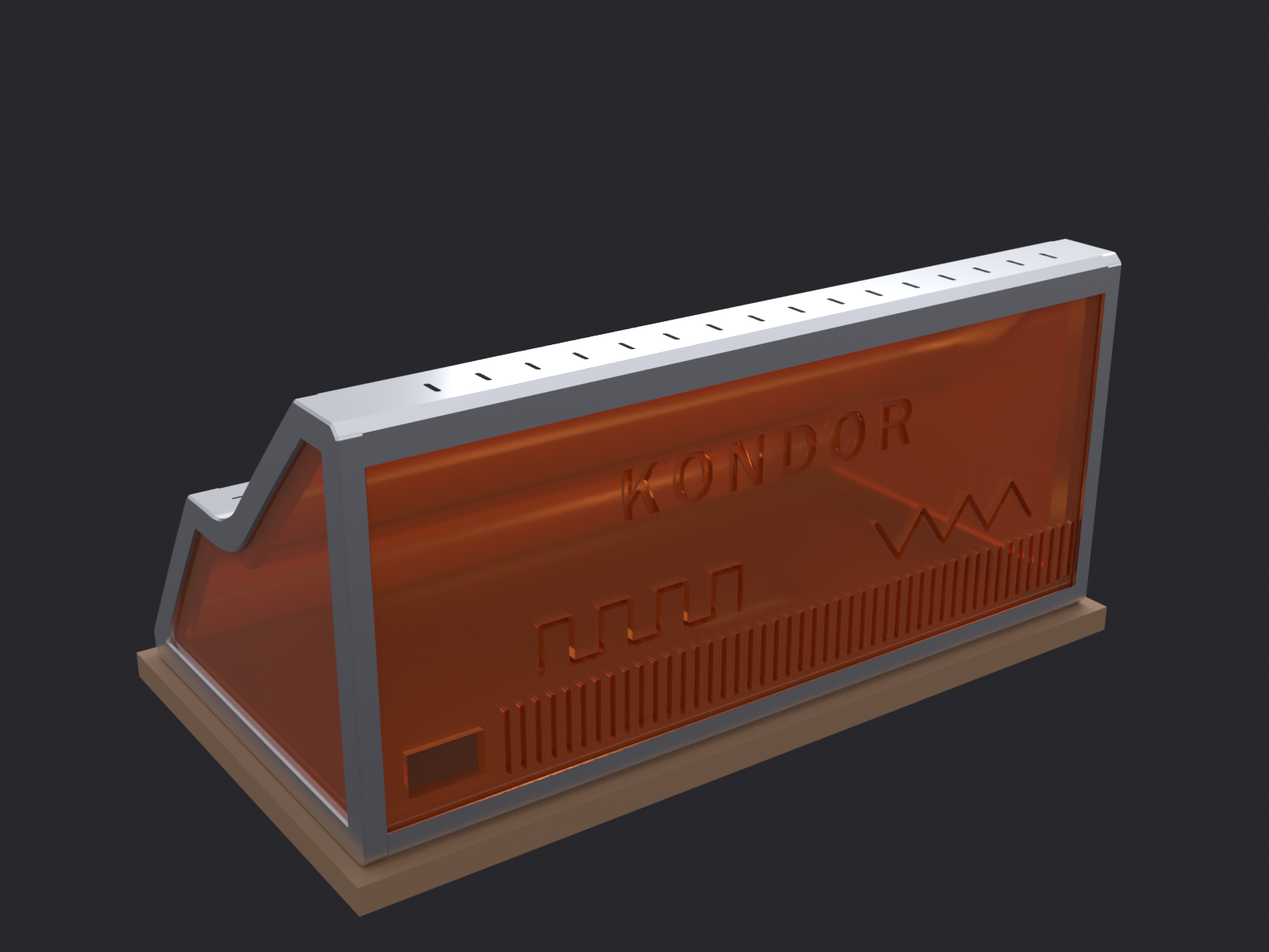
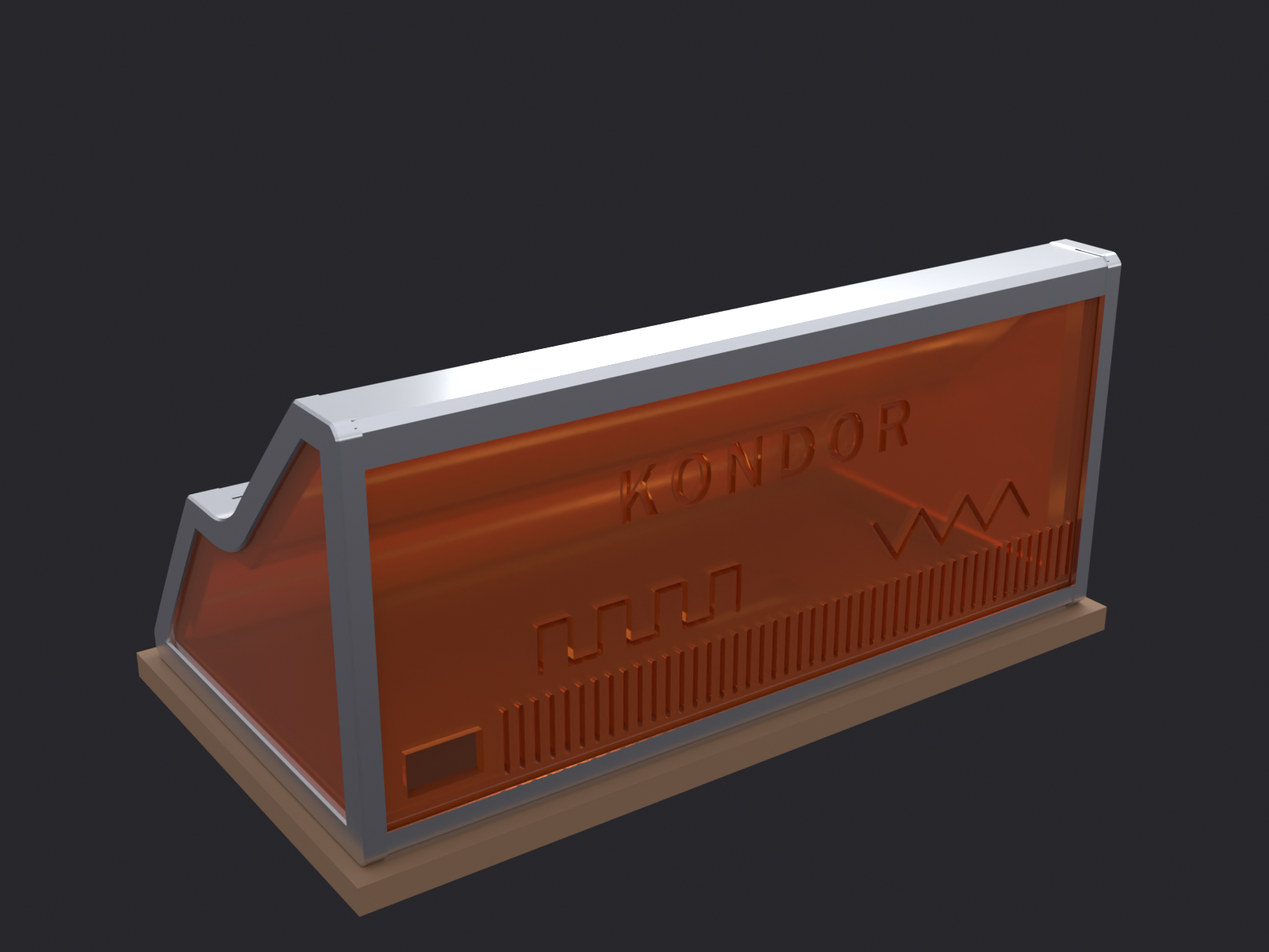
Los papeles del techo macizo, las cinco enmiendas aplicadas, y los cuatro renders
README (BOM, termico, blanks, tacos y el montaje 4-6 con la tabla entrando con
el anillo A y el chasis al final), PLIEGO rev. 27 (rebajes y cajeados CON SUS
PROFUNDIDADES, que el DXF es una planta y no las sabe decir; radios, cupon,
desarrollos con muesca) y RFQ rev. 26 (la pregunta del reborde de 1 x 3 a
+-0.1, la unica abierta de esta tanda).

Y las cinco enmiendas del §9 APLICADAS en sus papeles, no prometidas en una
tabla: este repo ya arrastra specs que se mandan enmiendas unas a otras sin que
nadie las ejecute, y asi main sostiene dos arquitecturas vivas a la vez. Cada
una va fechada y diciendo a que sustituye; el razonamiento viejo se conserva.

Escritos por codex (ultra, 41 min, fuera de la factura de Claude) con los
numeros dados inline y la instruccion de no inventar ninguno. Cero [PENDIENTE].
Verificados a mano contra la salida del presupuesto: de quince cotas clave,
trece salen impresas y las dos que no -- el blank del techo (593.02) y el pie
de la nariz (19.5) -- se comprobaron llamando al modelo. Codex ademas aviso, y
tenia razon, de que otro proceso le movia HEAD debajo mientras escribia.

Los cuatro renders regenerados con la brida ya corregida, los cuatro VERDE.

Claude-Session: https://claude.ai/code/session_01U7UtxXUysRG6bCfHZXiNkw

diff --git a/docs/superpowers/specs/2026-08-29-trasera-capturada-talon-nariz-design.md b/docs/superpowers/specs/2026-08-29-trasera-capturada-talon-nariz-design.md
@@ -15,6 +15,13 @@ miembro), que se queda en lo demás · **Enmienda** a `2026-08-15-case-design.md
 (rev. 26), a `2026-08-29-nariz-recta-valle-limpio-design.md` §2.3 y a
 `2026-08-28-costilla-pletina-design.md` §4.
 
+> **Enmienda del 2026-08-30.** La spec
+> `2026-08-30-techo-macizo-chapas-empotradas-design.md` sustituye aquí las
+> cotas operativas del bolsillo, la cara vista de la trasera, las juntas de
+> los labios, el montaje y el techo. Las correcciones están junto a cada
+> sección. El texto del 29-08 se conserva como razonamiento histórico, no como
+> instrucción de taller.
+
 ## 1. De dónde sale
 
 Samuel, mirando el render de la noche: *«no me gusta el talón! preferiría que la
@@ -58,6 +65,14 @@ hacia delante), tapa del valle, rieles.
 ## 3. La trasera se captura como las mejillas
 
 ### 3.1 El bolsillo del tramo trasero
+
+> **Corrección del 2026-08-30 — sustituye las cotas de este apartado.** El
+> bolsillo va en **u = 4.5..15.5**. Después quedan una pared de 3 y los 3.5 que
+> entra el costado; por eso la franja trasera pasa a 22. Bajo los labios del
+> techo y del talón, el labio del bolsillo queda con **3 de hondo**: los otros
+> 3 los ocupa el rebaje de chapa. En el resto conserva 6. El bolsillo sigue
+> cerrado por los dos extremos; cambia su sección, no el motivo de capturar la
+> plancha.
 
 En la cara interior de cada anillo, a lo largo del tramo trasero (P5 → P6), se fresa
 un **bolsillo de 11 × 6**: 11 hacia dentro desde `u = 3` (u = distancia al plano
@@ -132,6 +147,11 @@ solo en z 0 … 8 (encima, el bolsillo de la trasera); u 14 … 17 macizo (la pa
 
 ### 3.4 La trasera
 
+> **Corrección del 2026-08-30 — sustituye el rehundido de 4 que sigue.** La
+> plancha conserva **552.32 × 237.18** en PMMA de 8 y sigue sin taladros. Su
+> cara vista queda a **5.5** del plano trasero. Retrocede 1.5 para dejar la
+> rendija de 3.0 entre la cara interior del labio empotrado y la plancha.
+
 Una plancha de 8 de **552.32 × 237.18**, la misma en las dos variantes, sin un
 taladro ni una muesca pasante. Sus puntas entran 5.85 en los bolsillos (6 menos
 `hol_piel`); su canto de abajo apoya en el pie del talón (y = 1.5), 0.5 sobre el
@@ -155,6 +175,13 @@ no existen. La rejilla arranca a un puente (6.5) del labio; las ondas apenas se
 mueven; KONDOR baja 7.
 
 ### 3.5 Arriba y abajo: labio por fuera, y por qué no hay canal
+
+> **Corrección del 2026-08-30 — sustituye las tiras continuas de 2.5.** Cada
+> labio lleva **seis tacos adhesivos de EPDM de 3.0 × 15**. Son doce en total.
+> Con 20 % de compresión dejan **2.40** de luz. En el techo, los vanos entre
+> tacos forman la **salida de aire por la rendija del alero**; una tira
+> continua la cerraría. El talón usa la misma junta para sostener la plancha,
+> aunque su rendija no entra en el presupuesto de salida.
 
 A los lados la retiene el anillo en las dos direcciones (§3.1: el labio hacia
 fuera, la pared del bolsillo hacia dentro). Arriba y abajo:
@@ -181,6 +208,16 @@ fuera, la pared del bolsillo hacia dentro). Arriba y abajo:
   su retorno de 24, la dejaba en 121.5°); sin él, **la tapa sigue abriendo 180°**.
 
 ### 3.6 Montaje y servicio
+
+> **Corrección del 2026-08-30 — sustituye el orden de montaje que sigue.** Con
+> el anillo A tumbado se ponen la trasera, el techo y la tabla preparada en el
+> banco con nariz y talón —3 + 3 M4 avellanados desde arriba—, pero **sin el
+> chasis**. La tabla se fija al canto de A con sus 3 M5 desde fuera y la brida A
+> del techo con sus dos M4. El anillo B baja sobre marco, trasera, techo, nariz, talón y
+> el canto de la tabla. Se aprietan desde dentro los doce M4 del marco B y los
+> dos de la brida B; desde fuera, los 3 M5 de la tabla. El chasis del PSU entra
+> al final por el frente y sus 4 M4 se aprietan desde debajo. Así los seis M4
+> de los pies se hacen en el banco y el chasis no tapa el acceso al marco B.
 
 **Entra con el anillo B, como los costados.** Con el anillo A de pie y los rieles
 en su marco, la trasera se mete de lado: una punta en el bolsillo del anillo A,
@@ -283,6 +320,12 @@ el retorno mide 8, sin sitio para un M4 fuera de dos zonas de doblez.
 
 ## 5. El techo por detrás: dos variantes; se escogió B
 
+> **Corrección del 2026-08-30 — sustituye la geometría operativa de A y B que
+> sigue.** Se conserva el chaflán escogido, pero el techo vigente es **macizo,
+> sin ranuras**, y el labio pasa de 18 a **20**. La salida deja la meseta y va
+> a la rendija bajo el alero. La letra B queda como historia de la comparación
+> visual; no autoriza a fabricar el blank anterior.
+
 El miembro alto sigue siendo el techo del pico al canto, con su retorno de 4 en el
 pico y sus dos bridas a los anillos. Lo que cambia es cómo baja por detrás y que
 lleva canal (§3.5). Las dos variantes se renderearon y **Samuel escogió B el
@@ -329,6 +372,15 @@ tuerca y arandela de nylon que se veían a través del acrílico, fuera.
 
 ## 7. Puertas
 
+> **Corrección del 2026-08-30 — sustituye la lectura operativa de las filas
+> antiguas que siguen debajo.** `guarda_trasera_capturada()` conserva la captura
+> de la plancha; la pared de 3, el bolsillo en u = 4.5..15.5 y el costado que
+> entra 3.5 pasan a `guarda_tramo_trasero()`. Bajo los dos labios de chapa el
+> bolsillo tiene 3 de hondo; en el resto conserva 6. `guarda_aire()` ya no busca
+> ranuras en el techo: con 9.22 W cuenta la rendija del alero y las dos ondas.
+> Las filas de la tabla conservan la arquitectura anterior para explicar qué
+> rompía cada puerta; no son instrucciones vigentes.
+
 | puerta | qué hace |
 |---|---|
 | **muere** `guarda_trasera_dentro`, `guarda_agarre` (mordida de los M3 en las bandas), `_anclajes_miembro`, `_muesca_trasera` y las tres cajas de la trasera con muescas; `MIEMBROS_DXF` (las filas de M3 de las bandas) | |
@@ -354,6 +406,16 @@ el modelo después, VERDE, y romper cada puerta nueva a propósito.
 
 ## 8. Lo que cambia para el taller
 
+> **Corrección del 2026-08-30 — sustituye el alcance de taller de las viñetas
+> antiguas que siguen debajo.** El anillo lleva el rebaje de chapa de 3.5 × 3,
+> un cajeado de brida de 28 × 15.5 × 3 por anillo y la franja trasera de 22 con
+> el bolsillo en u = 4.5..15.5. Bajo los dos labios de chapa el bolsillo tiene
+> 3 de hondo; en el resto conserva 6. El techo queda macizo, con labio de 20 y
+> blank de 593.02 × 73.85. Los blanks vigentes son 545.62 × 41.23 para el talón
+> y 545.62 × 49.195 para la nariz; ambos llevan la muesca de 2.65 y el alivio
+> Ø2. La junta de los labios son doce tacos adhesivos de 3.0 × 15, seis por
+> labio. El detalle ejecutable está en `case/PLIEGO.md`, rev. 27.
+
 - **Mecanizado**: en la cara interior de cada anillo, el bolsillo de 11 × 6 a lo
   largo del tramo trasero, cerrado por los dos extremos (de y = 1 a P5.y − 17,
   con el escalón bajo el chaflán); y el contorno del rebaje del costado a 17
@@ -377,6 +439,17 @@ el modelo después, VERDE, y romper cada puerta nueva a propósito.
 - **Tornillería**: −10 M3, −10 tuercas, −10 arandelas de nylon, −10 arandelas d16.
 
 ## 9. Lo que este documento NO cierra
+
+> **Corrección del 2026-08-30 — sustituye aquí la tira de EPDM y la lectura de
+> la junta como cierre.** La junta vigente son seis tacos de 3.0 × 15 por
+> labio. En el techo, la rendija nominal de 3.0 entre tacos es la salida de
+> aire. Ya no queda abierta la elección entre tira y resalte: lo que sí queda
+> para la primera pieza es comprobar el derrame y la compresión real de los
+> tacos. Las viñetas antiguas se conservan para mostrar qué incertidumbre fue
+> cerrada. También quedan cerradas aquí las viñetas del labio de 18 y del
+> costado a 3: el techo vigente tiene labio de 20, la franja trasera mide 22 y
+> el costado entra 3.5. La variante vigente es B; A queda solo como razonamiento
+> histórico.
 
 - **A contra B**: decidido, **B** (2026-08-30, mirando los renders). Lo que cuesta:
   un doblez más en el techo y el relieve en las bridas. Queda retirar la A del

diff --git a/case/README.md b/case/README.md
@@ -178,7 +178,7 @@ La tercera murió por una razón que no sale en ningún número: el acrílico na
 es **traslúcido**, y el campo de ranuras se transparentaba a lo largo del canto
 inferior. Se ve en el render oficial, no en la geometría.
 
-Eran 45 ranuras en la primera rejilla y luego 44 al entrar la escuadra de la
+La rejilla tuvo otras cuentas y luego 44 ranuras al entrar la escuadra de la
 trasera. Esa cifra queda como historia. La tanda del 2026-08-30 recalcula el
 campo contra la trasera visible y deja **46 ranuras de 41.8 × 3.75**, con
 **7 065 mm² a y = 46**. `ranuras_rejilla_entrada()` cruza el presupuesto con el
@@ -207,7 +207,7 @@ La primera versión se olvidó ese término y los 14 salieron 12.
 |---|---|---|---|
 | entrada (trasera, abajo) | **7 065 mm²** | y = 46 | 46 de 41.8 × 3.75 |
 | salida — rendija bajo el alero | **1 352 mm²** | y = 238 | luz nominal 3.0, mirando al suelo |
-| salida — las dos ondas abiertas | 2 289 mm² | y ≈ 95 | — |
+| salida — las dos ondas abiertas | 2 289 mm² | — | — |
 
 La meseta queda **maciza**: se retiran sus 16 ranuras porque una cara sensible
 a derrames no puede ser la salida. La salida total es **3 641 mm²**: los
@@ -619,7 +619,7 @@ regeneraciones desde cero, Task 10) y comparando con SHA-256:
 
 | Clase | ¿Byte-idéntico? | Qué SÍ es estable | Mecanismo |
 |-------|:---:|---|---|
-| **DXF** (`case/plans/*.dxf`) | **SÍ** | Todo — 8/8 archivos con el mismo SHA-256 en las 3 corridas (medido con 8; hoy son 11, las 3 nuevas son de acero) | OpenSCAD 2021.01 emite R12 determinista para geometría 2D |
+| **DXF** (`case/plans/*.dxf`) | **SÍ** | Todo — 8/8 archivos con el mismo SHA-256 en las 3 corridas (medido con 8; hoy son 16) | OpenSCAD 2021.01 emite R12 determinista para geometría 2D |
 | **STL** (`case/renders/build/*.stl`) | **NO** | El tamaño en bytes: `assembly_aluminio.stl` midió 25457 B las 3 veces, `assembly_acrilico.stl` 2478678 B las 3 veces | CGAL no garantiza el orden de facetas al triangular. `assembly_aluminio.stl` cambió de SHA-256 en las 2 regeneraciones (3 hashes distintos en 3 corridas); `assembly_acrilico.stl` coincidió por azar en esta muestra — no asumir que un STL se mantiene solo porque coincidió una vez |
 | **`.kicad_pcb`** (`case/panels/panel-template.kicad_pcb`) | **NO** | El *conjunto* de bloques top-level (posiciones de footprint, geometría de taladros y contorno) una vez se descartan las líneas `(uuid ...)`: 17/17 bloques idénticos en las 3 corridas, verificado por comparación estructural (no diff lineal) | KiCad reacuña un UUID nuevo por objeto en cada guardado y además **rota cíclicamente** el orden de los bloques `(footprint ...)` — un `diff` de texto sobre dos corridas muestra decenas de líneas cambiadas sin que ninguna posición real se haya movido |
 
@@ -668,18 +668,13 @@ plegado; la del valle, corte de chapa—, así que nestearlas con el acrílico
 sería mentir sobre lo que se manda junto. La tapa salió el 2026-08-25, con el
 cambio de material: hasta entonces era la tercera plancha de la segunda fila.
 
-Lo que sí se versiona son los **quince DXF que se mandan a cortar** de
-`case/plans/` (más `lienzo_2d`, la preview de arriba que no se manda —
-dieciséis ficheros en total, contados el 2026-08-28): dos de acrílico
-(costado, trasera — **la tapa de remate NO EXISTE**: no es un pendiente de
-`export.ps1`, es una pieza que se borró del diseño el 2026-08-27, y
-`remate_sup()`/`remate_sup_2d()` se borraron del `.scad` en el fix round 1
-de esta tarea por no tener llamador), **dos del anillo mecanizado** (cara
-vista y dorso, §6.1 del pliego), cinco de chapa de aluminio (los tres
-miembros con brida, la escuadra de la trasera y la tapa del valle), tres de
-acero, una de madera, el cajeado de la marca y **el cupón** (calibración de
-kerf del acrílico, §"Procedimiento del cupón" abajo). Son el entregable que
-va al taller, y su diff es la prueba de qué se mandó a cortar y cuándo.
+Lo que sí se versiona son los **dieciséis DXF que se mandan a cortar** de
+`case/plans/`, contados el 2026-08-30: dos de acrílico (costado y trasera),
+dos operaciones del anillo mecanizado (cara vista y dorso, §6.1 del pliego),
+cinco de aluminio (marco de la ventana, techo, nariz, talón y tapa del valle),
+tres de acero, una de madera, el cajeado de la marca y dos cupones —el de
+kerf del acrílico y el del perfil del anillo—. Son el entregable que va al
+taller, y su diff es la prueba de qué se mandó a cortar y cuándo.
 
 ## Procedimiento del cupón — sólo si se vuelve al láser
 

diff --git a/docs/superpowers/specs/2026-08-15-case-design.md b/docs/superpowers/specs/2026-08-15-case-design.md
@@ -1,7 +1,7 @@
 # SAM17 — Diseño del case (consola de dos pisos, esqueleto de aluminio)
 
 **Fecha:** 2026-08-15
-**Estado:** aprobado en diseño (rev. 26), pendiente de plan de implementación
+**Estado:** aprobado en diseño (rev. 27), pendiente de plan de implementación
 **Sustituye a:** formato de cajón de la tesis (madera 950 × 440 × 100–200 mm,
 paneles galvanizados pintados) descrito en
 [`docs/modules/08-case-panels.md`](../../modules/08-case-panels.md).
@@ -230,6 +230,15 @@ lenguaje visual).
 > dibujó para paneles de 190 mm y un case de 500 × 380 × 350; el case real
 > mide **544.32 × 256.18 × 308.94** — superado otra vez en la rev. 22, ver
 > abajo.
+>
+> **rev. 27** (2026-08-30): **techo macizo, salida por el alero y tres chapas
+> empotradas**. Techo, nariz y talón quedan rehundidos 1 en un rebaje de
+> 3.5 × 3 de la cara interior del anillo; los pies siguen a ras sobre la
+> tabla. El techo pierde las 16 ranuras, su labio pasa a 20 y la salida es la
+> rendija de 3.0 bajo el alero. El presupuesto térmico usa 9.22 W. La tabla,
+> con nariz y talón, entra con el anillo B; el chasis del PSU entra después por
+> el frente. Esta revisión sustituye la geometría y el montaje de la rev. 26
+> en esos puntos; conserva debajo el razonamiento que llevó a aquella.
 >
 > **rev. 26** (2026-08-29, más noche): **la trasera capturada como las
 > mejillas, y el talón como la nariz** — Samuel, mirando el render de la rev.
@@ -469,6 +478,15 @@ comprobación va antes del paso destructivo).
 
 ## 5. Estructura
 
+> **Enmienda rev. 27 — 2026-08-30.** Sustituye en esta sección los párrafos
+> operativos de «el techo y el talón» y «trasera» de la rev. 26. El techo queda
+> **macizo**, con labio de 20, y descarga por una rendija de 3.0 bajo el alero;
+> `guarda_aire()` cuenta 9.22 W. Las tres chapas —techo, nariz y talón— entran
+> rehundidas 1 en el rebaje de 3.5 × 3 del anillo, salvo los pies, que siguen a
+> ras sobre la tabla. La tabla se prepara con nariz y talón y **entra con el
+> anillo B**; el chasis del PSU se monta al final por el frente. El porqué de
+> la arquitectura sustituida se conserva en las viñetas siguientes.
+
 **REESCRITA EN LA REV. 21 (2026-08-27) Y OTRA VEZ EN LA REV. 22 (2026-08-28).**
 Hasta la rev. 20 esta sección decía que los costados de acrílico eran *«las
 piezas portantes»*. Ya no lo son desde la rev. 21, y desde la rev. 22 la
@@ -486,6 +504,9 @@ aquí va lo que sustituye a lo anterior.
   por anillo en el canto inferior para la tabla. Su DXF (`costilla_2d`) es
   ahora un **contorno real**, no un desarrollo — al revés que en la
   rev. 21, porque la pieza ya no se dobla.
+  **Corrección del 2026-08-30:** el censo de 16 queda como historia y se
+  sustituye por **14 roscas ciegas M4 por anillo**: doce para el marco de la
+  ventana y dos para la brida del techo. Las 3 M5 del canto no cambian.
 - **Costados (×2): acrílico naranja de 8 mm.** Siguen siendo **piel**: no
   sostienen nada y **no llevan un solo taladro** desde el 2026-08-27.
   Desde la rev. 22 entran por detrás y asientan **coplanares** en el

diff --git a/docs/superpowers/specs/2026-08-28-costilla-pletina-design.md b/docs/superpowers/specs/2026-08-28-costilla-pletina-design.md
@@ -103,6 +103,17 @@ apilado desaparece:
     3, 6 de hondo, 11 de ancho); en ese tramo el rebaje del costado retrocede a 17
     y entre los dos bolsillos queda una pared de 3
     (`2026-08-29-trasera-capturada-talon-nariz-design.md` §3).
+  - *Enmienda (2026-08-30):* **sustituye la geometría operativa de la enmienda
+    anterior en el tramo trasero y amplía el mecanizado del anillo.** La cara
+    interior lleva un rebaje de chapa de **3.5 × 3** y deja un reborde de
+    **1 × 3** a lo largo del contorno visible. Cada anillo lleva un cajeado de
+    brida de **28 × 15.5 × 3**. Los radios pasan a **5.5** donde hay chapa y
+    vuelven a 4.5 donde nariz o talón salen hacia el pie. La franja trasera
+    pasa a **22**: bolsillo u = 4.5..15.5, pared 3 y costado entrando 3.5; bajo
+    los labios el labio del bolsillo queda con 3 de hondo y en el resto
+    conserva 6. El cupón gana el rebaje de chapa y su reborde. El texto del
+    29-08 queda como razón histórica del segundo bolsillo, no como cota de
+    fabricación.
   - *Enmienda (Tarea 4, 2026-08-28):* esos 4 mm sobre el acrílico serían `clip_fondo`
     = 18.5, y ahí el clip muere **dentro del rebaje**, pisando sólo la ceja que ya está
     encajonada entre el labio y la pared. Se fija `clip_fondo` = **24** — ruling de la
@@ -230,6 +241,10 @@ de `E_aluminio` (el anillo sigue derivándose por flecha).
   salen en el DXF como círculos (la profundidad va en el pliego); se cuentan — **16 por
   anillo**: 10 de placa + 4 de brida + 2 de clip — y se exige 1.5 D contra la ventana y
   contra la silueta, dentro de la franja.
+  **Corrección del 2026-08-30:** ese censo queda como historia y se sustituye
+  por **14 roscas ciegas M4 por anillo**: doce del marco de la ventana y dos de
+  la brida del techo. Las distancias se verifican contra el rebaje y el
+  cajeado vigentes.
 - **`agujeros_donde_toca()`**: vuelve la sección «costado: CERO agujeros».
 - Cada tarea del plan termina con **los dos renders** regenerados: es como Samuel
   decide.
@@ -306,6 +321,9 @@ de `E_aluminio` (el anillo sigue derivándose por flecha).
   saben decir «14 de pletina» ni «1.5 × 45»), verificada por `seccion_del_cupon()`; y
   el PLIEGO convertido en **punto de parada**, con la tabla de qué se mide cuando el
   cupón vuelve y qué se cambia si no pasa.
+  **Corrección del 2026-08-30:** esa sección sustituye la sección anterior del
+  cupón y añade el rebaje de chapa de 3.5 × 3 con su reborde de 1 × 3. Las
+  plantas del anillo no llevan profundidades; el cupón y el PLIEGO sí.
 - Desincronizaciones de papel que la revisión encontró: el BOM aún dice «transversal
   2020», la spec del 27 dice chapa de 3, `params.scad` llama «portantes» a los costados.
   Van con la Tarea 6 de los papeles.

diff --git a/case/PLIEGO.md b/case/PLIEGO.md
@@ -2,7 +2,8 @@
 
 > **rev. 27 (2026-08-30). Tanda A: techo macizo y tres chapas empotradas.**
 > **Al mecanizado:** cada anillo gana el rebaje de chapa de 3.5 de ancho × 3
-> de fondo, los dos cajeados de brida de 28 × 15.5 × 3, los radios de 5.5
+> de fondo y un cajeado de brida de 28 × 15.5 × 3; son dos al fabricar el par.
+> También cambian los radios a 5.5
 > donde hay chapa y la franja trasera de 22. El cupón gana el rebaje y su
 > reborde de 1 × 3. **A la chapa:** el techo queda sin ranuras, con labio de
 > 20 y bridas con esquinas R2; techo, talón y nariz pasan a los blanks
@@ -240,8 +241,8 @@ cara):
   labios, ese contorno se funde con el bolsillo de la trasera. El bolsillo va
   en **u = 4.5..15.5**, con pared de 3 y el costado entrando 3.5; su labio
   queda con 3 de hondo bajo los labios de chapa y conserva 6 en el resto.
-  Trae también las plantas de los dos cajeados de brida de **28 × 15.5** y los
-  14 círculos de rosca ciega. La silueta no se repite: dibujarla sería mandar
+  Trae también la planta del cajeado de brida de cada anillo —dos al fabricar
+  el par—, de **28 × 15.5**, y los 14 círculos de rosca ciega. La silueta no se repite: dibujarla sería mandar
   cortar el contorno dos veces. **Las profundidades no viven en esta planta**;
   están escritas en §6.1.
 
@@ -327,8 +328,8 @@ rosca en el anillo.
 difieran más de 2: se mantienen como una familia. En cada punta se corta una
 **muesca de 2.65** desde el canto libre hasta la primera línea de doblez, a
 **19.06** (`largo − BD45/2`). Lleva un **alivio de Ø2 a caballo de la esquina
-interior**. Después siguen el segundo doblez a 45° y el tercero a 35° del
-perfil vigente. Los tres van hacia dentro; el pie queda sobre la tabla.
+interior**. Después siguen los dos dobleces restantes del perfil vigente. Los
+tres van hacia dentro; el pie queda sobre la tabla.
 
 **`miembro_alto_2d` ES EL TECHO MACIZO.** Hay una sola geometría operativa en
 esta revisión: blank **593.02 × 73.85**, meseta de 50 **sin ranuras**, retorno

diff --git a/docs/superpowers/specs/2026-08-29-marco-ventana-banda-estructural-design.md b/docs/superpowers/specs/2026-08-29-marco-ventana-banda-estructural-design.md
@@ -110,6 +110,15 @@ Lo que compra, y es lo que se pidió:
 
 ### 3.2 La geometría, tramo por tramo
 
+> **Corrección del 2026-08-30 — sustituye las filas «frente, suelo, meseta» y
+> «trasera» de la tabla que sigue.** Bajo las chapas empotradas, el canto
+> exterior se retira **2.65** en vez de 1.65. En el **suelo** conserva 1.65,
+> porque los pies no se rehunden. En la trasera se retira **16.00** y
+> `marco_fondo_trasera` pasa a **30**. La pata resultante mide **14 × 6**; con
+> 200 N cede 1.70 mm y trabaja a 112 MPa, por debajo de los techos de 2 mm y
+> 130 MPa. Esta corrección sustituye también la justificación de la pata a 28:
+> cambió el plano de la trasera, no la función del marco.
+
 El canto exterior del marco NO va a la silueta en todos los tramos, y la razón es
 lo que hay encima de cada uno:
 
@@ -185,6 +194,12 @@ trasero y un pie sobre la tabla — y se llama **`talon`**, porque hace atrás l
 la `nariz` hace delante.
 
 ### 4.2 Las dos piezas
+
+> **Corrección del 2026-08-30 — sustituye la fila de ranuras de la tabla que
+> sigue.** El techo vigente es macizo. `guarda_aire()` nunca leyó las ranuras
+> del DXF: calcula la salida con 1 352 mm² de la rendija del alero y 2 289 mm²
+> de las dos ondas, para 3 641 mm² en total y 9.22 W. La fila vieja se conserva
+> como historia de la arquitectura que esta corrección reemplaza.
 
 **`miembro_alto`** (una L con pestañas): del pico al canto trasero y hacia abajo.
 

diff --git a/case/RFQ.md b/case/RFQ.md
@@ -298,19 +298,22 @@ maciza de 14 mm**, vaciada por el centro, una pieza por lado.
    un anodizador que sí?
 
 **Única pregunta abierta de esta tanda:** «¿Un reborde de **1 × 3** a lo
-largo del contorno, a **±0.1**: se puede? Si no, lo subimos a **1.5**.» No
+largo del contorno, a **+-0.1**: se puede? Si no, lo subimos a **1.5**.» No
 cambiarlo en máquina sin respuesta: esa cota mueve el rehundido de las tres
 chapas y sus desarrollos.
 
 ### Muestra que se pide con el presupuesto
 
-Un **cupón de 100 mm del perfil del anillo** — mismo espesor, mismo rebaje del
-costado, **rebaje de chapa de 3.5 × 3 y reborde de 1 × 3**, mismo chaflán,
-mismo acabado, mismo anodizador — **antes de cortar los dos
+Un **cupón de 100 mm del perfil del anillo** — mismo espesor, mismo rebaje,
+mismo chaflán, mismo acabado, mismo anodizador — **antes de cortar los dos
 anillos completos**. Las cotas de la cara vista (chaflán, rebaje, rehundido)
 salieron de escalar una foto de referencia y están marcadas ESTIMADO en la
 spec de diseño; el cupón es lo que las cierra contra la pieza real, no contra
 el render.
+
+Desde la rev. 26, ese mismo cupón reproduce además el **rebaje de chapa de
+3.5 × 3 y el reborde de 1 × 3**. Es la pared delicada que se valida antes del
+anillo completo.
 
 El plano es **`plans/cupon_anillo_2d.dxf`**: la sección del perfil, a 1:1 y en
 mm. Va con una rosca ciega M4 a media longitud y un punto de bonding

diff --git a/docs/superpowers/specs/2026-08-27-case-esqueleto-visible-design.md b/docs/superpowers/specs/2026-08-27-case-esqueleto-visible-design.md
@@ -437,6 +437,13 @@ valle Samuel las liberó — «con 60 vamos más que bien». Lo que las gobierna
 es `APERTURA_MIN` en `clearance_budget.py`, y vale 60. Se anota en vez de
 borrarse: la cota no se perdió sola, se soltó a propósito.
 
+> **Enmienda del 2026-08-30.** La frase «La ventilación» dentro de «Lo que NO
+> se toca» queda **SUPERADA**. La salida ya cambió el 2026-08-28 y vuelve a
+> cambiar aquí: el techo queda macizo y la salida pasa a la rendija de 3.0 bajo
+> el alero. La geometría vigente la gobiernan `guarda_rendija()` y
+> `guarda_aire()`. Se conserva la frase vieja porque explica el límite que
+> tenía esta spec; ya no es una instrucción operativa.
+
 ## 10. El pliego
 
 Pierde un proveedor —se va el de perfil de aluminio— y el acrílico pierde una
